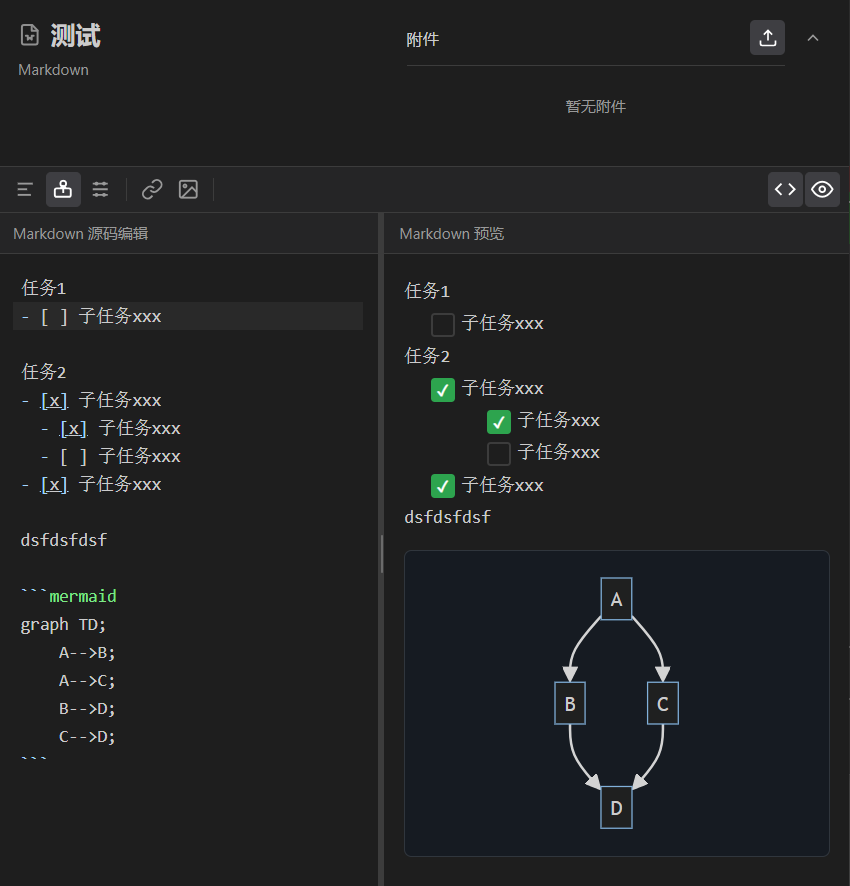
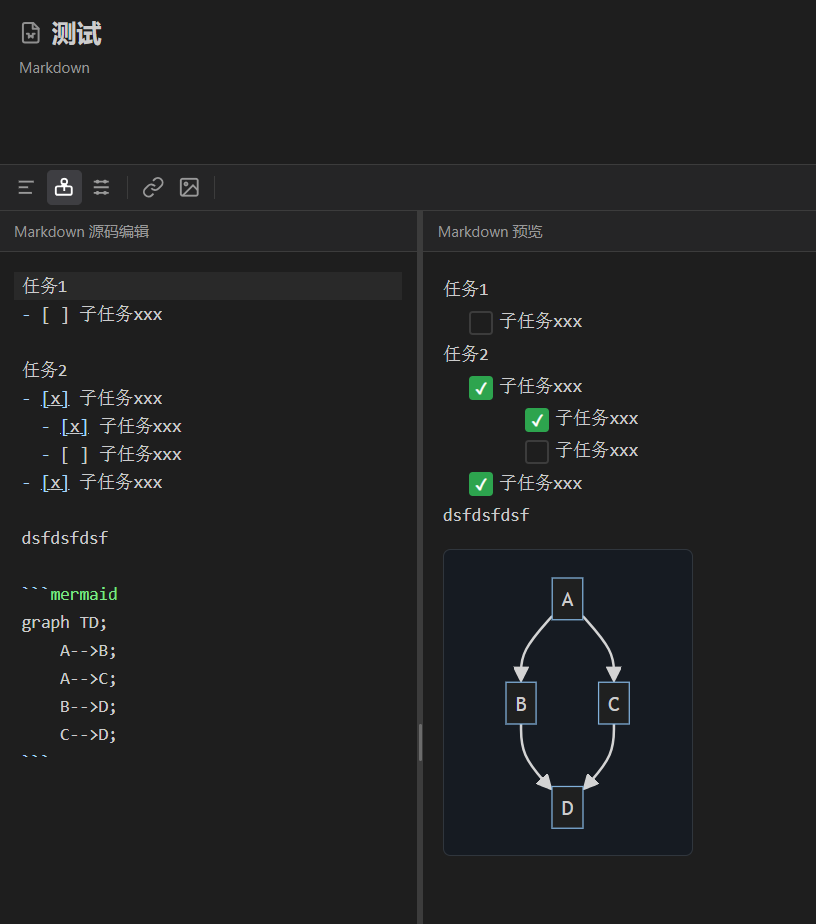
调整图的显示大小

diff --git a/src/renderer/components/MarkdownEditor.vue b/src/renderer/components/MarkdownEditor.vue
@@ -1218,14 +1218,18 @@ watch(() => props.content, (newContent) => {
   background: var(--bg-secondary);
   border: 1px solid var(--border-color);
   border-radius: 6px;
-  display: flex;
+  display: inline-flex;
   justify-content: center;
   align-items: center;
+  max-width: 100%;
+  width: fit-content;
+  min-width: 200px;
 }
 
 .milkdown-wrapper :deep(.milkdown div[data-type="diagram"]) svg {
   max-width: 100%;
   height: auto;
+  display: block;
 }
 
 :root[data-theme='dark'] .milkdown-wrapper :deep(.milkdown div[data-type="diagram"]) {
